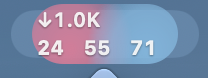
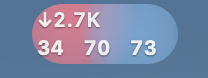
Retake menu bar screenshots with the popover closed

diff --git a/README.md b/README.md
@@ -64,7 +64,7 @@ macOS 26+ 使用原生 **Liquid Glass**；macOS 14 / 15 使用 `NSVisualEffectVi
 
 ## 菜单栏
 
-自动排版根据空间在三种密度之间切换；也可在设置页固定选择。以下为本轮真实截图，数值会随采样变化。
+自动排版根据空间在三种密度之间切换；也可在设置页固定选择。以下菜单栏图片均在面板关闭时实拍，数值会随采样变化。
 
 | 排版 | 实际截图 |
 | --- | --- |
